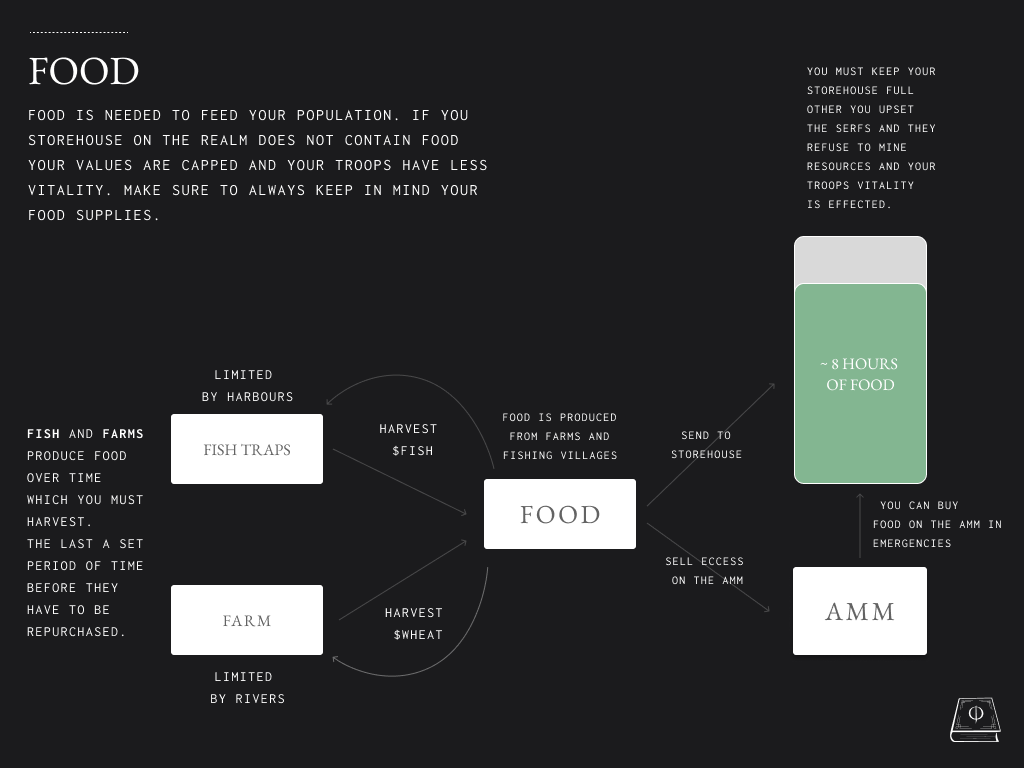
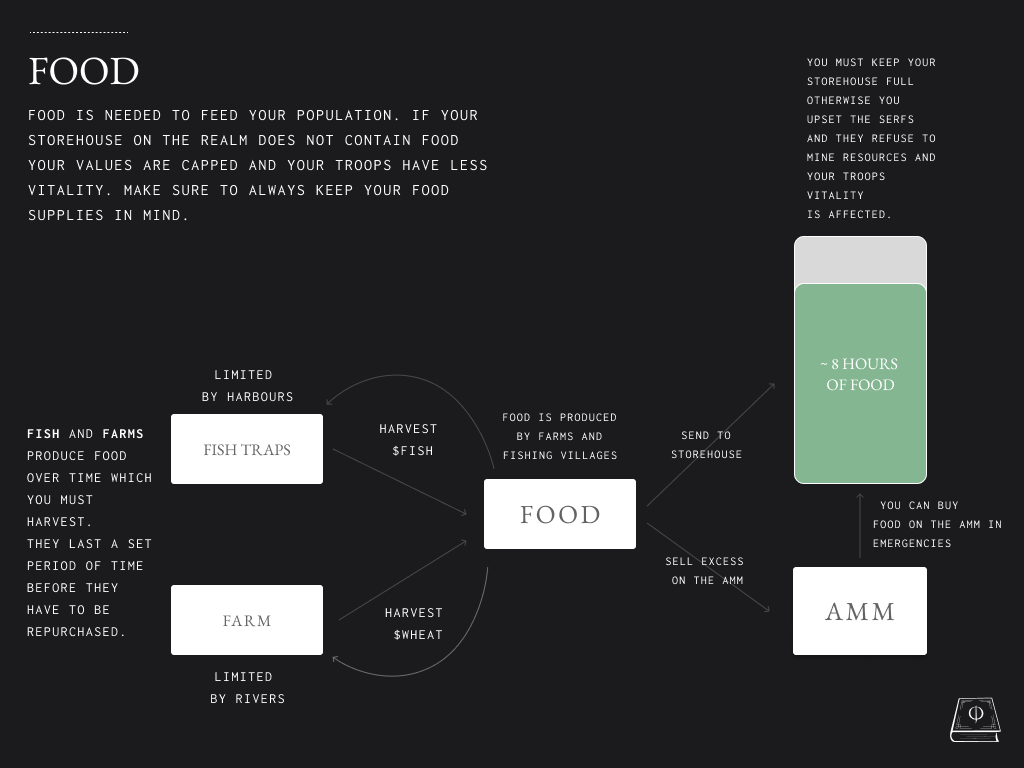
game updates

diff --git a/docs/background/bibliothecadao.md b/docs/background/bibliothecadao.md
@@ -11,11 +11,11 @@ tags:
 
 ## History
 
-BibliothecaDAO spawned from the desire to graph all the lootverse together but has grown into something far greater with grand ambitions. It is the manifestation of our collective desire to build an alternative reality where anyone can participate. 
+BibliothecaDAO spawned from the desire to graph all the Lootverse together but has grown into something far greater with grand ambitions. It is the manifestation of our collective desire to build an alternative reality where anyone can participate. 
 
 ### Our Aspirations
 
-Shepherding the development of the first open-source MMOCCG (Massively Multiplayer On-Chain Composable Game) built on top of STARKS (StarkNet). Once this game is thriving the development learned will be applied into the next eternal game with the long term goal of become the cornerstone development house for building on-chain games. The initial token linking the Realmverse is $LORDS, and the current allocation (as determined by the DAO) is as follows:
+Shepherding the development of the first open-source MMOCCG (Massively Multiplayer On-Chain Composable Game) built on top of STARKS (StarkNet). Once this game is thriving the development learned will be applied on the next eternal game with the long term goal of becoming the cornerstone development house for building on-chain games. The initial token linking the Realmverse is $LORDS, and the current allocation (as determined by the DAO) is as follows:
 
 
 ### our Governance
@@ -24,7 +24,7 @@ Governance of the DAO is based around the Realm NFTs, however this will be expan
 
 ### Open source
 
-All code within this ecosystem is open source. Players are free to fork and tweak the game they see fit, the value of the ecosytem comes from not from constraining the code, but setting it free. It is no secret to why Linux is the most used operating system in the world, it's because of its open source nature. Anyone is free to build on Linux, and anyone is free to build and extend the Realms and Bibliotheca ecosystem.
+All code within this ecosystem is open source. Players are free to fork and tweak the game they see fit; the value of the ecosytem comes from not from constraining the code, but setting it free. It is no secret to why Linux is the most used operating system in the world, it's because of its open source nature. Anyone is free to build on Linux, and anyone is free to build and extend the Realms and Bibliotheca ecosystem.
 
 ### cc0 - no copyright reserved
 

diff --git a/docs/game/food.md b/docs/game/food.md
@@ -25,7 +25,7 @@ Farms are constrained to the number of Rivers you have in your Realm, and Fish T
 
 Once you have harvested or purchased $WHEAT/$FISH, you are able to distribute this food to your population and troops by converting the food into Store Houses. 
 
-Unlike Farms and Fish Traps, Store Houses take up space in your realms spatial area. The more Store Houses you build, the more space they take up, but the longer they feed your population and troops. Storehouse deplete at a rate according to how many troops and population you have. The greater the standing Army or buildings, the greater consumption rate.
+Unlike Farms and Fish Traps, Store Houses take up space in your realms spatial area. The more Store Houses you build, the more space they take up, but the longer they feed your population and troops. Storehouse deplete at a rate according to how many troops and population you have. The greater the standing Army or buildings, the greater the consumption rate.
 
 ---
 
@@ -39,9 +39,9 @@ Once you harvest either $WHEAT/$FISH from your Farms/Traps, you have the option 
 
 In turn, this provides the opportunity for other Lords to purchase them instead of having to build Farms/Traps and harvesting themselves. A Lord with low Rivers/Harbors with a penchance for raiding, or simply being time poor can benefit from this, while providing a $LORDS stream to productive farmers. 
 
-Wheat and Fish will be traded separately, and utility related to net consuptions, will adding an interesting economic factor to the game.
+Wheat and Fish will be traded separately, and utility related to net consuptions, will add an interesting economic factor to the game.
 
 ## Factors to consider
 
 ### Food consumption
-Workhuts, military buildings and troops all consume food. The more of these you have the faster the food is depleted. If you run out of food two major things happen, you production is capped at 25 and your troops vitality is capped at 50%.
+Work Huts, military buildings and troops all consume food. The more of these you have the faster the food is depleted. If you run out of food two major things happen, your production is capped at 25 and your troops vitality is capped at 50%.

diff --git a/docs/game/overview.md b/docs/game/overview.md
@@ -16,13 +16,14 @@ description: An overview of the game
 ---
 
 :::note
-You require a Realm in order to participate within this game. The first expansion of this game will be centered around the Adventurers NFT which will be free to play.
+You require a Realm in order to participate within this game ([OpenSea](https://opensea.io/collection/lootrealms)
+). The first expansion of this game will be centered around the Adventurers NFT which will be free to play.
 
 :::
 
 ### Onchain & eternal
 
-Once the production version of the game is live, it will exist for the length of Ethereum's data storage. Yes, it is run on StarkNet, but the all state change will still be posted to Ethereum, one of the primary determinants in our choice of an L2 to run the game over a sidechain.
+Once the production version of the game is live, it will exist for the length of Ethereum's data storage. Yes, it is run on StarkNet, but all the state change will still be posted to Ethereum, one of the primary determinants in our choice of an L2 to run the game over a sidechain.
 
 ### Resources are tradable and liquid
 All the resources (and many other assets) within this gameworld are user-owned tradable tokens. You use these resources to create buildings and troops to improve and defend your Realm, and pillage resources from others in your quest for greatness.
@@ -30,7 +31,7 @@ All the resources (and many other assets) within this gameworld are user-owned t
 
 #### Difficult player choices
 
-Players must make difficulty choices in this game. Every action has a reaction. Build too many troops and buildings and your food supplies will be depleted. Leave your vault unprotected and you will not be able to harvest the 7 day bounty. Optimize your builds and keep your digital serfs happy in order to rule in Eternal Imperio.
+Players must make difficult choices in this game. Every action has a reaction. Build too many troops and buildings and your food supplies will be depleted. Leave your vault unprotected and you will not be able to harvest the 7 day bounty. Optimize your builds and keep your digital serfs happy in order to rule in Eternal Imperio.
 
 #### Realms are the beginning
 

diff --git a/docs/game/resources.md b/docs/game/resources.md
@@ -19,7 +19,7 @@ tags:
 
 #### How are Resources generated?
 
-Once a Realm is settled in the game it will begin generating 25 of each Resource it has per day. This is the base amount that generates, but is influence by your choices in managing the Realm.
+Once a Realm is settled in the game it will begin generating 25 of each Resource it has per day. This is the base amount that generates, but is influenced by your choices in managing the Realm.
 
 
 #### How do I increase Resource production?
@@ -30,7 +30,7 @@ By increasing the population on a Realm, you will increase the number of workers
 
 #### How do I harvest Resources?
 
-Resources accrue every day cycle within the game. Once your harvest your resources they will appear in your Iron Bank. All resources are tokens and can be traded on the AMM (paired with Lords).
+Resources accrue every day cycle within the game. Once you harvest your resources they will appear in your Iron Bank. All resources are tokens and can be traded on the AMM (paired with Lords).
 
 #### Resource accrual cap
 
@@ -55,7 +55,7 @@ You must build up your defensive Army in order to protect your Vault. If you don
 
 ### Cool down between attacks
 
-If you are attacked, whether successfully or not, your Realm is given a 30 minute cool down period where it can't be attacked.
+If you are attacked, whether successfully or not, your Realm is given a 30 minute cool down period where it can't be attacked again.
 
 ---
 

diff --git a/docs/game/buildings.md b/docs/game/buildings.md
@@ -44,11 +44,11 @@ Each building decays at a different rate, for example, Castles decay slower than
 
 ### Economic
 
-Worker Huts are building that increase your working population. The greater your popualation, the greater the output of your Resources. A consquence of having a greater population is that you will require more food otherwise your Resource generation will be capped at 25 per day - [read more here](./food)
+Worker Huts are buildings that increase your working population. The greater your population, the greater the output of your Resources. A consquence of having a greater population is that you will require more food otherwise your Resource generation will be capped at 25 per day - [read more here](./food)
 
 Worker Huts have a fixed and relative cost based on the Resources the Realm has. For example, a Realm with only Wood can build a Worker Hut for 10x Wood, while a Realm with Diamonds, Sapphire and Mithral will need to pay 10 of each. 
 
-Once you build Worker Huts they will decay, so it is not a one-time purchase. Worker Huts decay over the course of 24 hours once building, and once fully decayed the population is decreased again.
+Once you build Worker Huts they will decay, so it is not a one-time purchase. Worker Huts decay a set amount once every 24 hours, decay begins as soon as they are completed. If they decay completely your population will decrease until you rebuild them.
 
 ### Military
 

diff --git a/docs/background/loot.md b/docs/background/loot.md
@@ -30,10 +30,10 @@ It's this community of builders that we are building with. Together, we are brin
 
 ## Our plans for the Lootverse
 
-We plan to bring the OG Loot bags onto StarkNet and allow rich game play with them. We will be doing this via a distilation contract. 
+We plan to bring the OG Loot bags onto StarkNet and allow rich game play with them. We will be doing this via a distillation contract. 
 
 OG bag holders will be able to distil bags and will receive the elements as individual NFTs on StarkNet.
 
-These NFTs will evolve over time and will be equipable to an onchain character.
+These NFTs will evolve over time and will be equippable to an onchain character.
 
 ![Loot Bag](/img/game/loot-distilation.png)

diff --git a/docs/game/realms.md b/docs/game/realms.md
@@ -38,6 +38,6 @@ These traits play a vital role in constraining what can be built on each Realm.
 
 **Harbors** = the number of Fishing Traps that can be built.
 
-**Rivers** = the number of Famrs that can be built. 
+**Rivers** = the number of Farms that can be built. 
 
 
